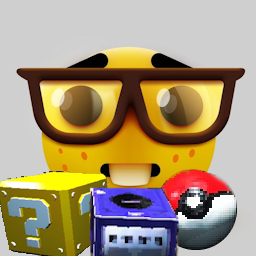
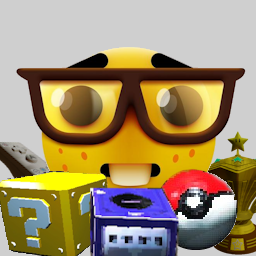
V1.0.2

Changed region(s): [[0.8125, 0.5, 1.0, 1.0], [0.0, 0.5312, 0.1875, 0.7188]]

diff --git a/README.md b/README.md
@@ -1,91 +1,78 @@
-This mod adds some fun new scraps to the game that you can collect and sell (or decorate ;D). Every scrap has a chance to spawn on EVERY VANILLA moon. Every scrap has their own sound when interacted with!
+Nerd Scraps
+V1.0.2
+By SettingFire321 (Keyble)
+
+This mod adds some fun new scraps to the game that you can collect and sell (or decorate ;D). These scraps come from popular franchises like Mario and Every scrap has a chance to spawn on EVERY VANILLA moon and Lethal Expansion's Wateridge. Every scrap has their own sound when interacted with!
 
 List of Scraps :
 
-( C = Conductive )
+C = Conductive
+2 = 2 Hands
 
-( 2 = 2 Handed Item )
-
-- GameCube - C
-- Question Mark Block - C 2
-- Wii Remote
-- Poké Ball - C
-- Mario Kart Wii Star Cup Trophies (3 Variants) - All C & 2
+     - GameCube (2 Variants) - C
+     - Question Mark Block - C 2
+     - Wii Remote
+     - Poké Ball - C
+     - Mario Kart Wii Star Cup Trophies (3 Variants) - All C & 2
 
 [Version History]
-
+V1.0.2 --------------------------------------------
+- Added a new Gamecube white variant (worth the same)
+- Fixed an issue where the [poke ball] was slightly in the air when resting
+- Every scrap can now be seen on Wateridge
+- Slightly increased [question mark block]'s spawn rate
+- Decreased spawn rates of [Star Cup Trophy Silver] and [Star Cup Trophy Gold] for balancing purposes.
+- Fix a problem where the player model uses 1 hand for 2-handed scraps. This screwed up with the holding positions so it might looks a bit off in game
 V1.0.0 --------------------------------------------
-
 - RELEASED
 - None of the scraps are interactable (yet???)
 - These items will NOT spawn on modded moons (yet???)
 - Added:
-- GameCube
-- Wii Remote
-- Mario ? Block
-- Poké Ball
-- Mario Kart Wii Star Cup Trophies
-- 3 Variants:
-- 3rd Place Bronze (Common)
-- 2nd Place Silver (Rare)
-- 1st Place Gold (SUPER DUPER RARE OMG)
-
-\----------------------------------------------------
+     - GameCube
+     - Wii Remote
+     - Mario ? Block
+     - Poké Ball
+     - Mario Kart Wii Star Cup Trophies
+          - 3 Variants:
+               - 3rd Place Bronze (Common)
+               - 2nd Place Silver (Rare)
+               - 1st Place Gold (SUPER DUPER RARE OMG)
+----------------------------------------------------
 
 [Next Version Plans] ---------------------------------
-
-- Tweaking spawn rates and stuff...
-
-\----------------------------------------------------
+     - Gag scraps? (With strategic value???)
+     - Melee scraps?
+----------------------------------------------------
 
 [Known Issues] --------------------------------------
-
-- Wii Remote Button textures are a little miscolored. No idea how to fix this (yet???) but it should not be THAT noticeable I think... :^)
-- The pegs on the ? Blocks are yellow, not white. Hopefully that doesn't bother you! Wait, you weren't going to notice until I brought it up? Oh... whoops :D
-
-\----------------------------------------------------
+     - Wii Remote Button textures are a little miscolored. No idea how to fix this (yet???) but it should not be THAT noticeable I think... :^)
+     - The pegs on the ? Blocks are yellow, not white. Hopefully that doesn't bother you! Wait, you weren't going to notice until I brought it up? Oh... whoops :D
+----------------------------------------------------
 
 
 [Credits]
-
 GameCube Drawer ----------------------------------
-
 Model by Nintendo
-
 Ripped by Centrixe the Dodo
-
 From Animal Crossing: New Leaf
 
 Wii Remote ------------------------------------------
-
 Model by Nintendo
-
 Ripped by Fawfulthegreat64
-
-- With help from Diagamma
-
+     - With help from Diagamma
 From Super Paper Mario
 
 ? Block Trophy ---------------------------------------
-
 Model by Nintendo
-
 Ripped by Peardian
-
 From Super Mario Galaxy
 
 Poké Ball Trophy --------------------------------------
-
 Model by Nintendo
-
 Ripped by Link101
-
 From Super Smash Bros. Brawl
 
 Star Cup Trophy ---------------------------------------
-
 Model by Nintendo
-
 Ripped by Peardian
-
 From Mario Kart Wii
